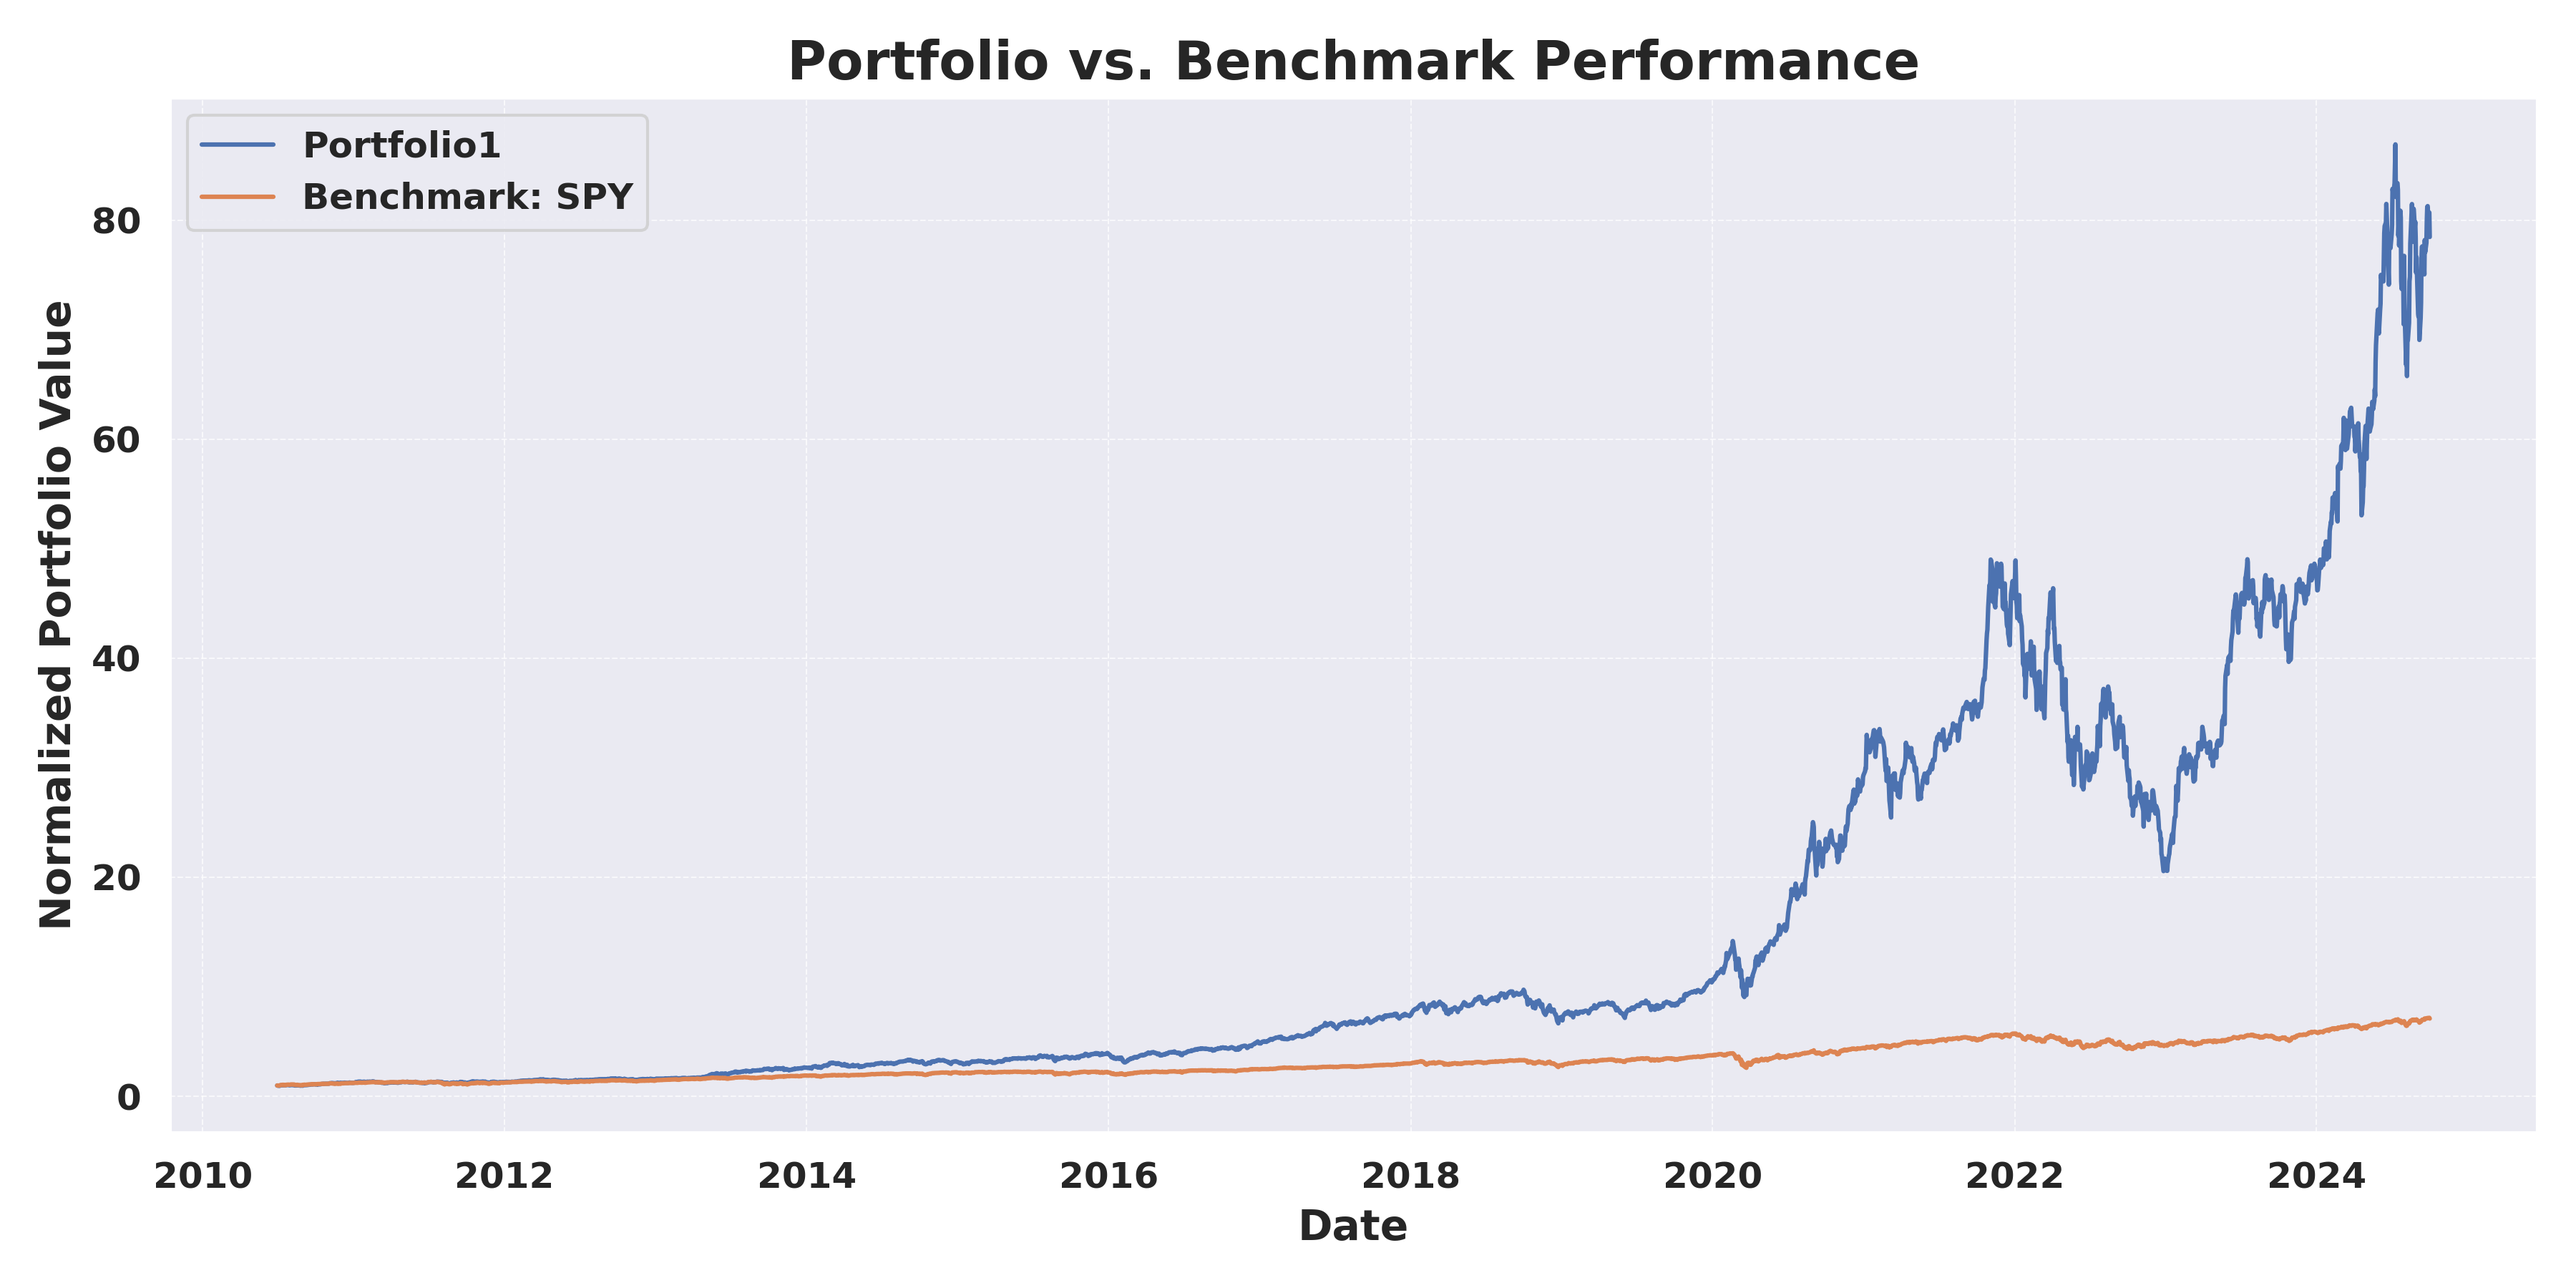
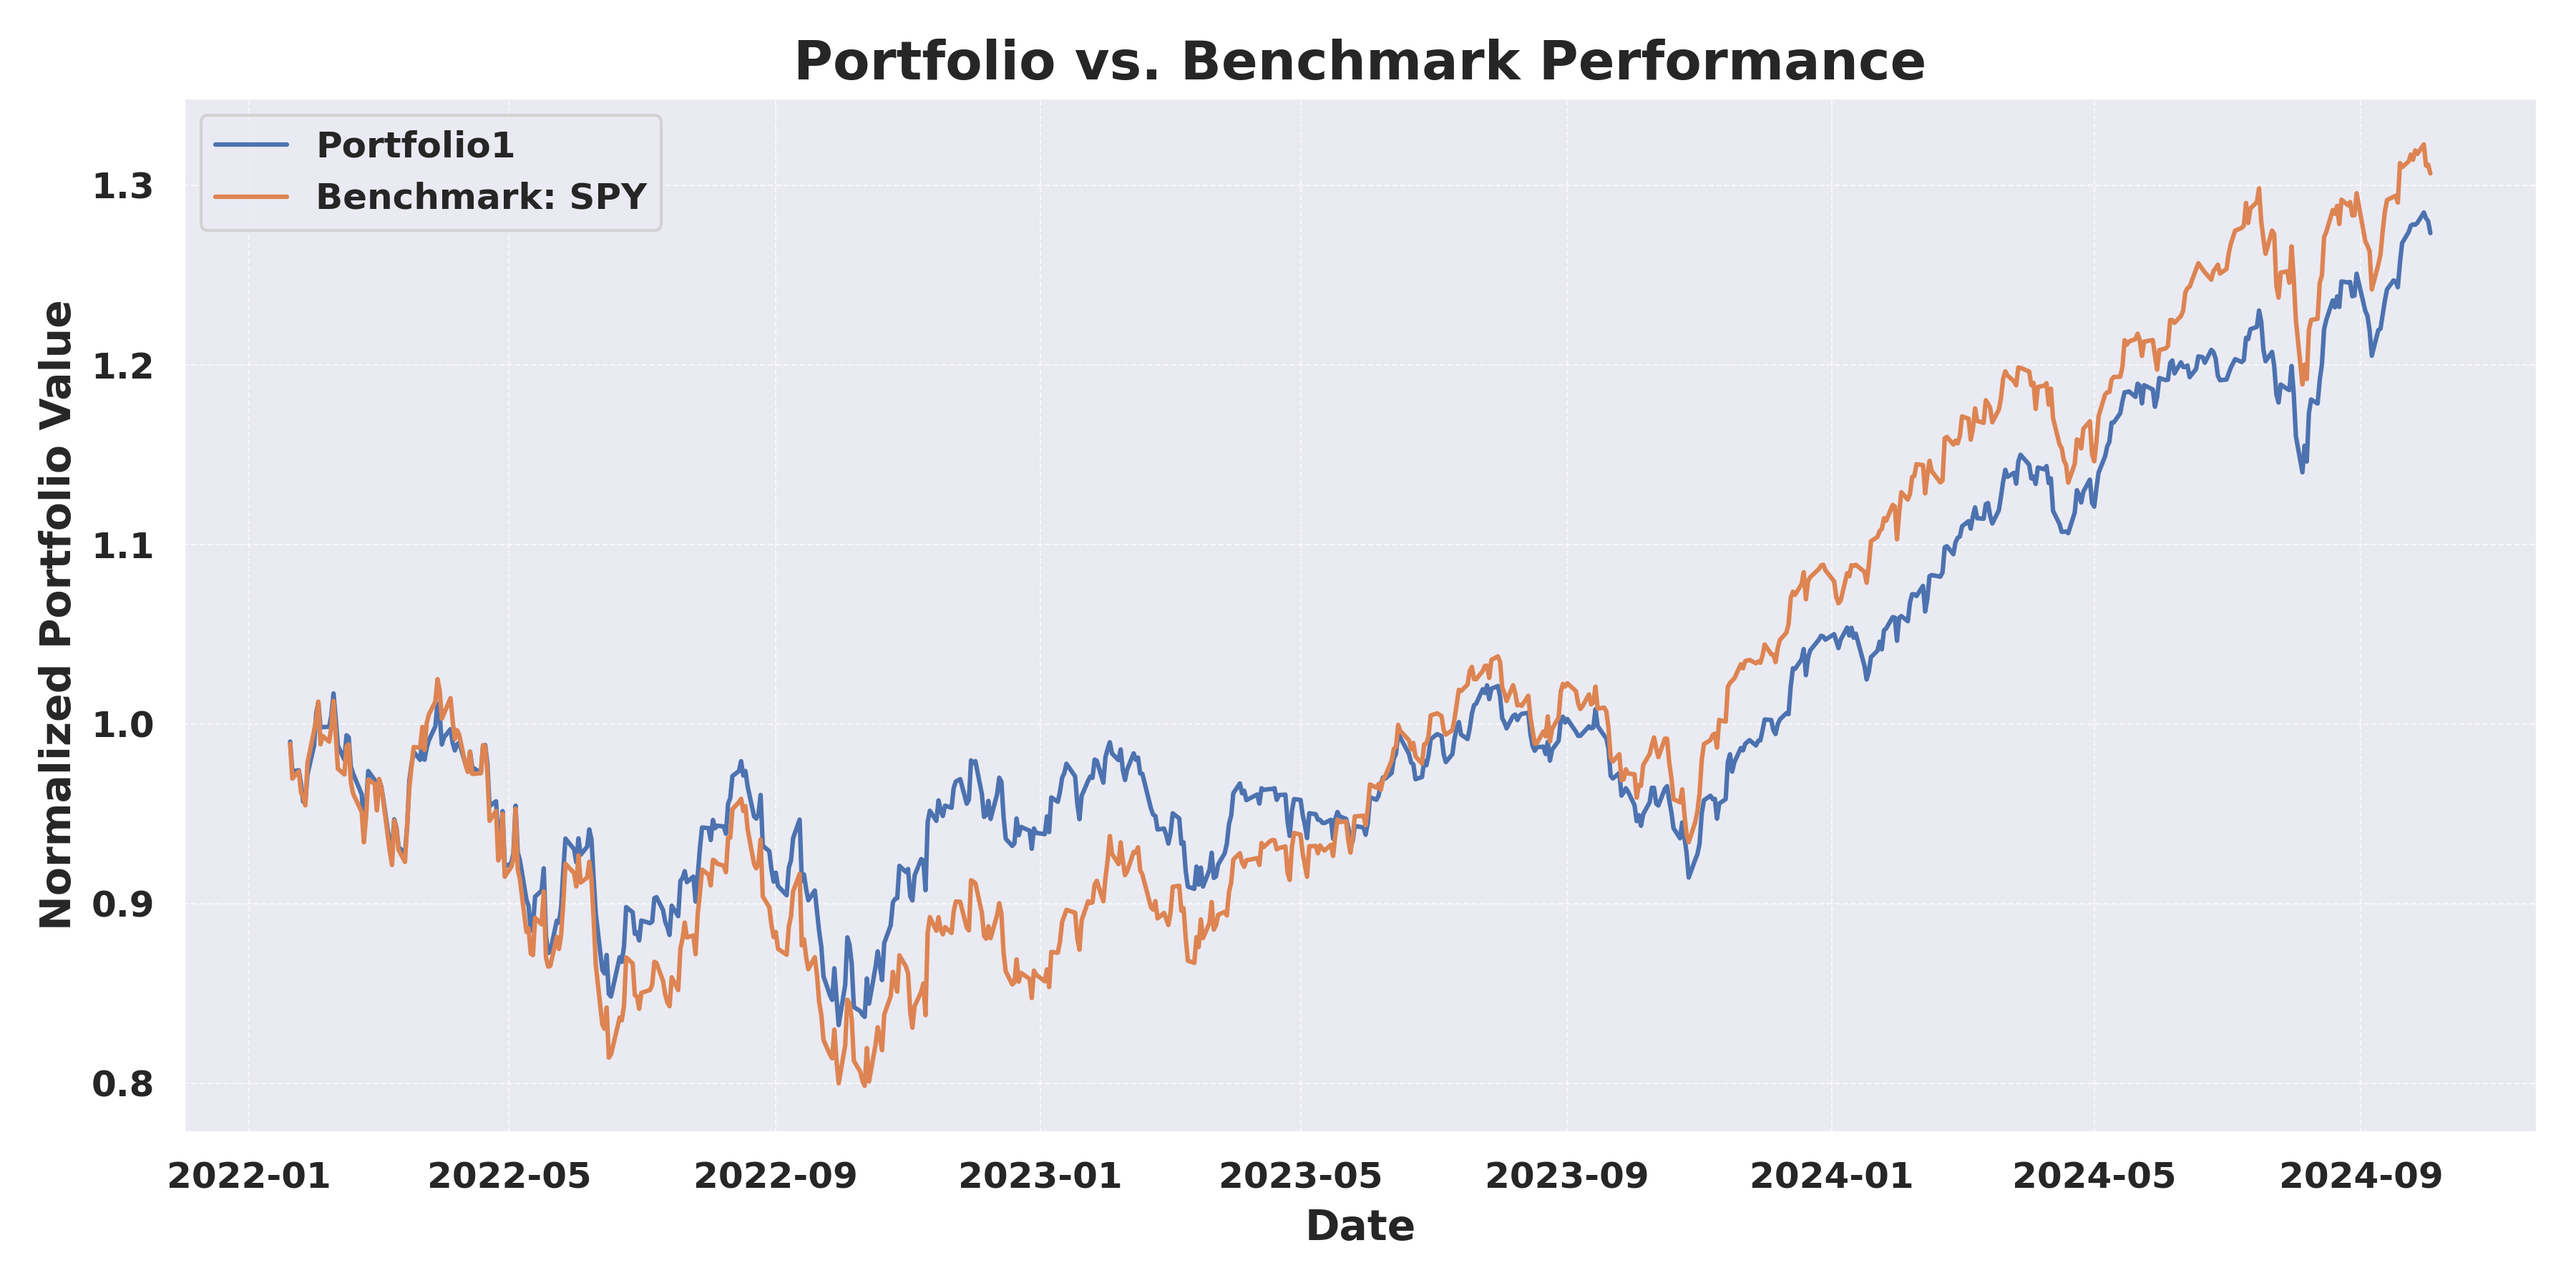
Reverted changes on backtester

diff --git a/McGill_Comp_backtest_v1.py b/McGill_Comp_backtest_v1.py
@@ -5,7 +5,7 @@ import numpy as np
 import seaborn as sb
 from matplotlib.ticker import PercentFormatter
 
-df = pd.read_csv('Real_Stock_Data.csv')
+df = pd.read_csv('Portfolio2.csv')
 
 weightings1 = dict(zip(df['Tickers'], df['Weights']))
 weightings2 = {"SPY": 100}  # Benchmark
